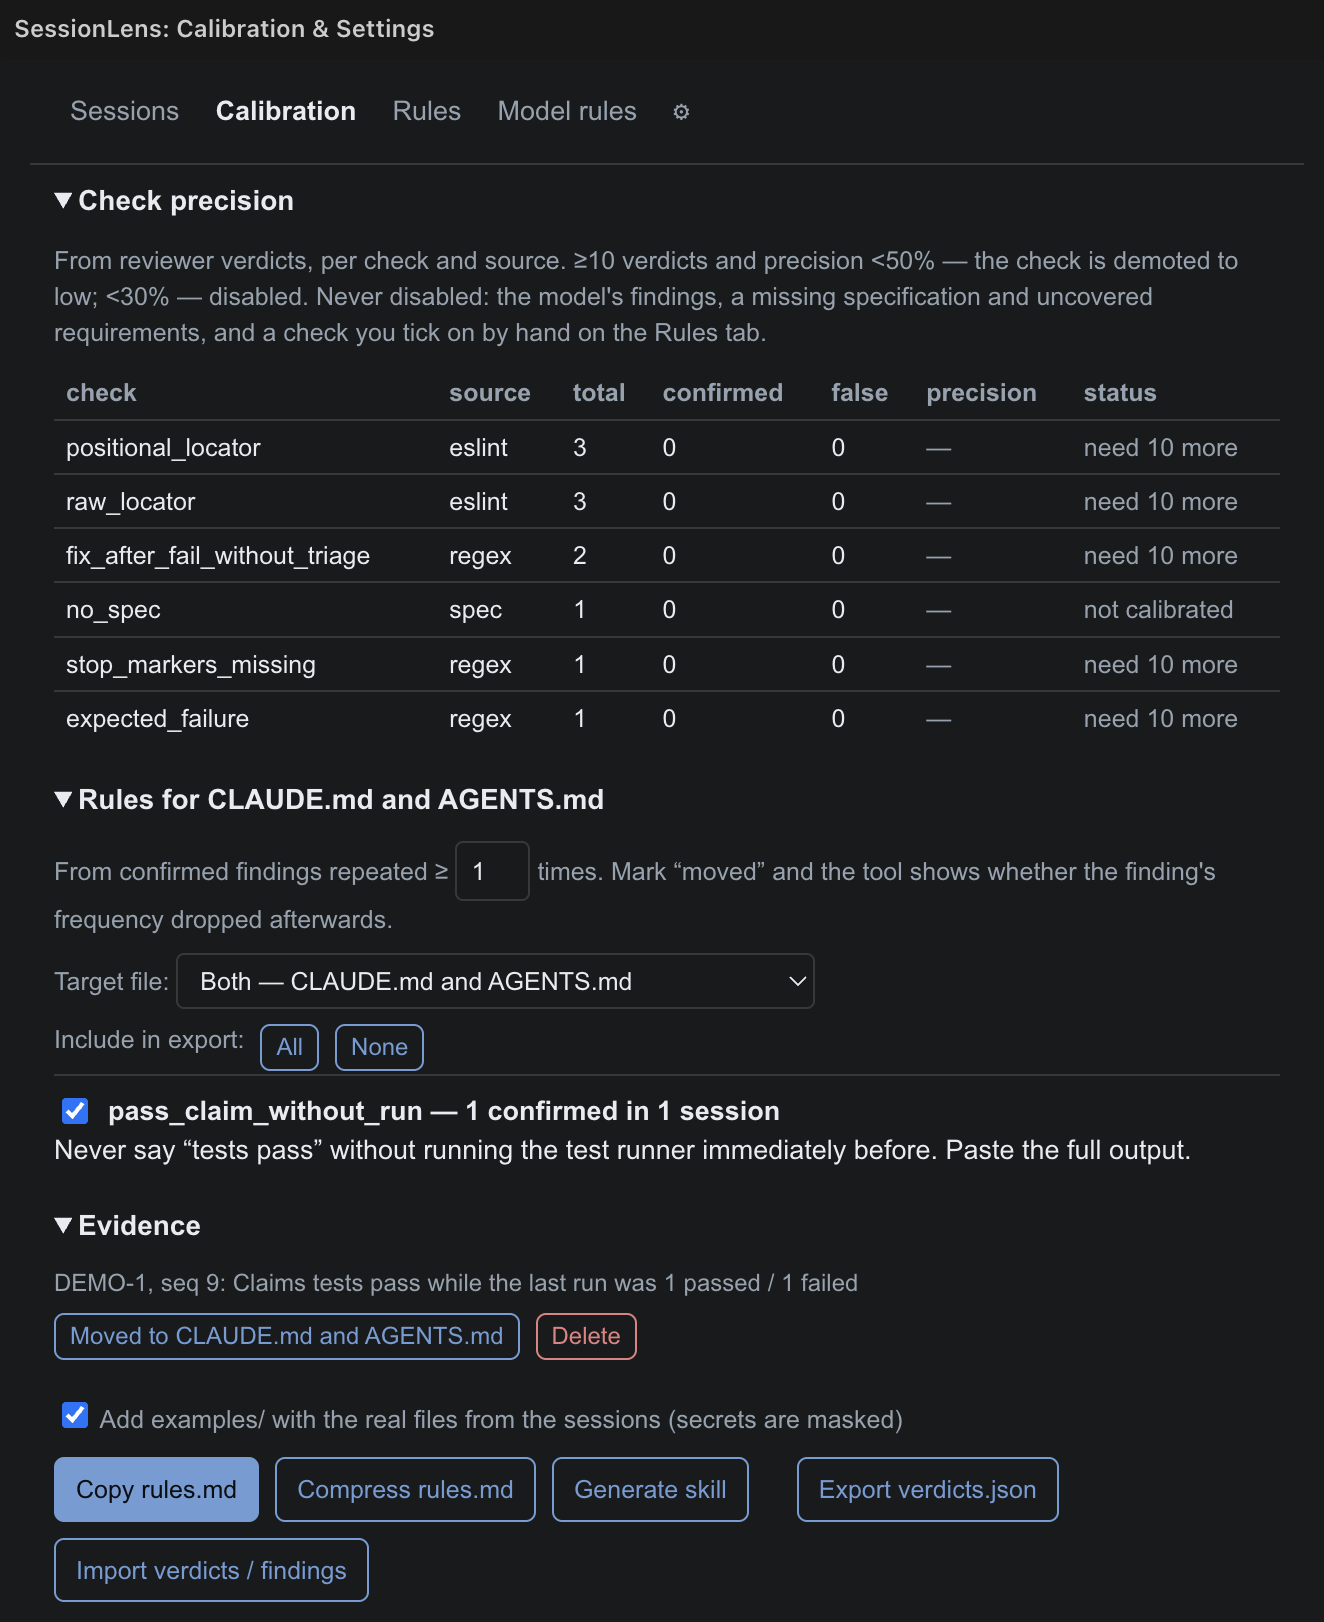
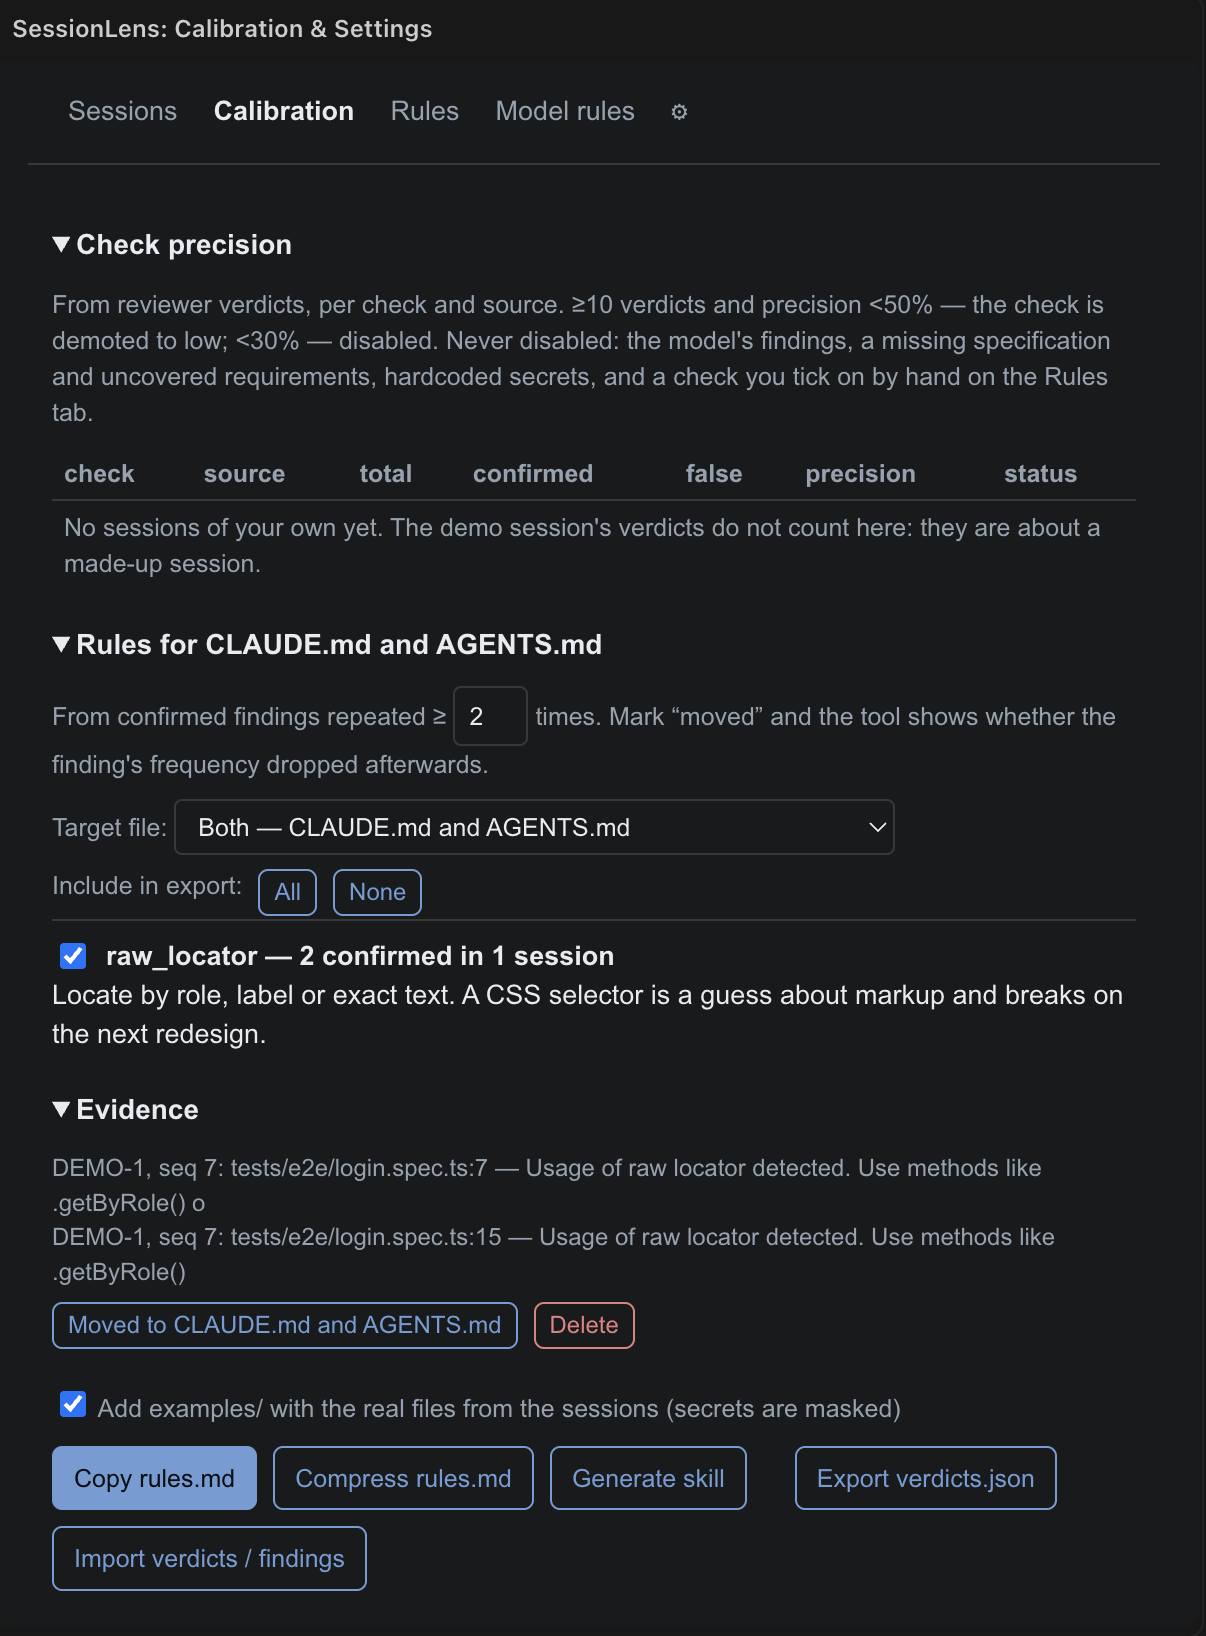
docs: new Calibration screenshot for 0.1.121
The Calibration tab as a first try with the demo session shows it: Check precision says
that demo verdicts do not count there (#122), and the rule raw_locator is proposed from
two confirmed findings, with its evidence open. The README caption now says so instead of
naming a precision table with rows.

Changed region(s): [[0.0307, 0.0617, 0.9511, 0.9864], [0.0307, 0.0, 0.3682, 0.0308]]

diff --git a/readme.md b/readme.md
@@ -100,7 +100,7 @@ Everything about one session. It opens in its own editor tab when you click a se
 
 ### Calibration
 
-![The Calibration tab: the check precision table, and a rule for CLAUDE.md and AGENTS.md proposed from a confirmed finding, with its evidence](media/screenshots/calibration.png)
+![The Calibration tab with only the demo session: Check precision says the demo's verdicts do not count there, and a rule for CLAUDE.md and AGENTS.md is proposed from confirmed findings, with its evidence](media/screenshots/calibration.png)
 
 Learning from your verdicts.
 
